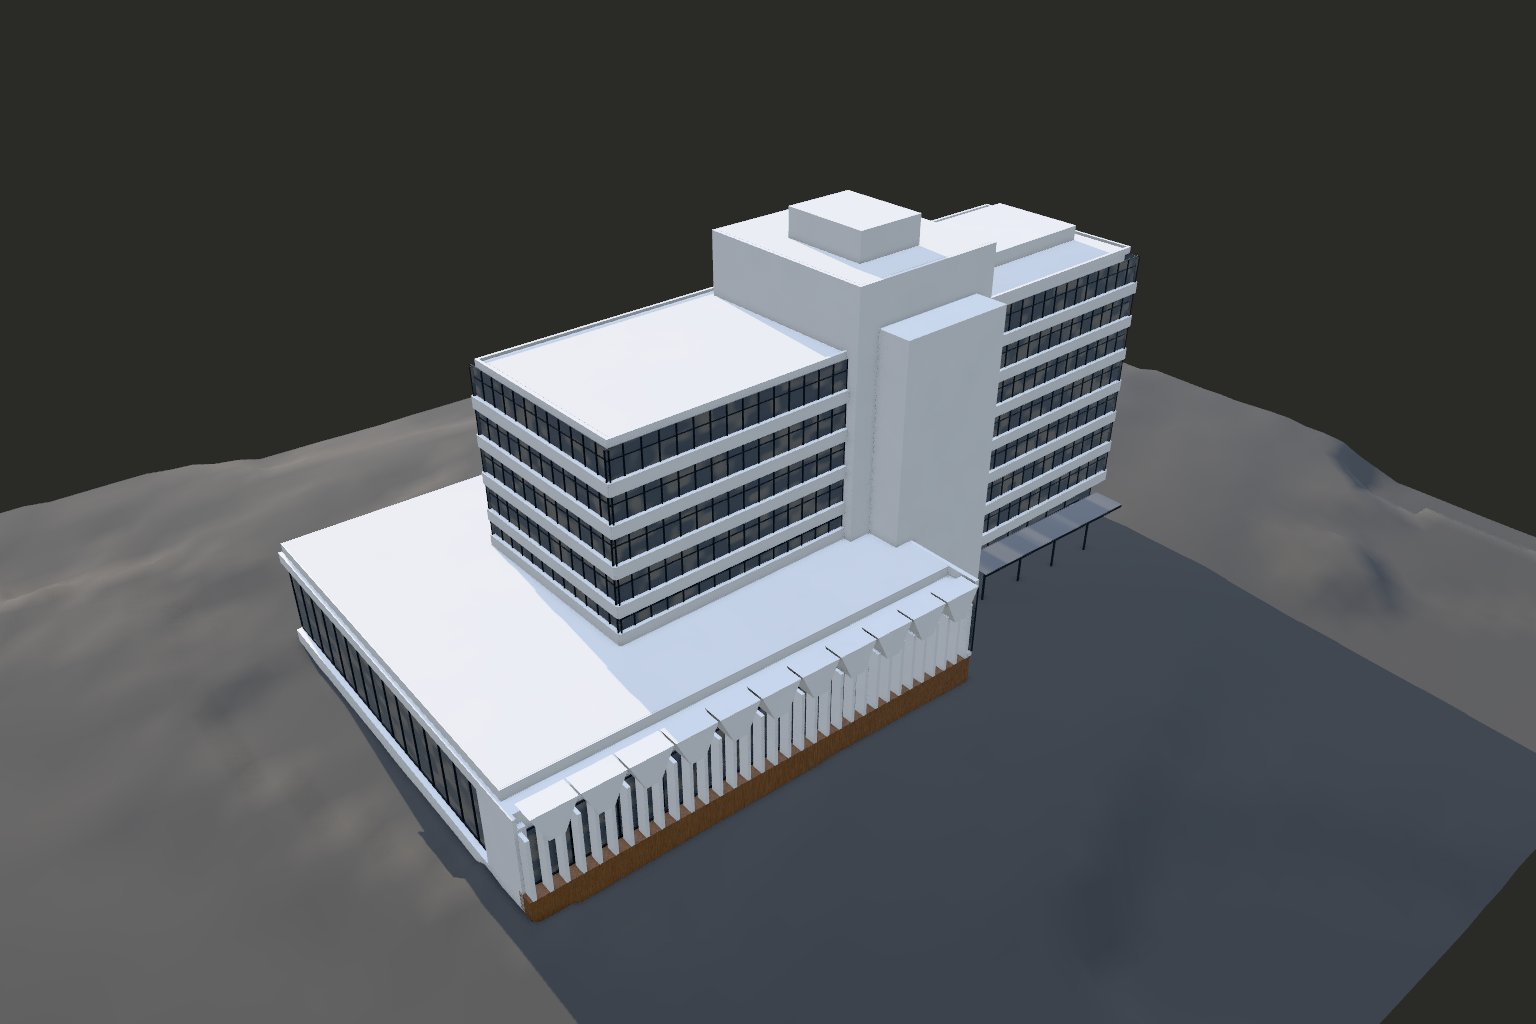
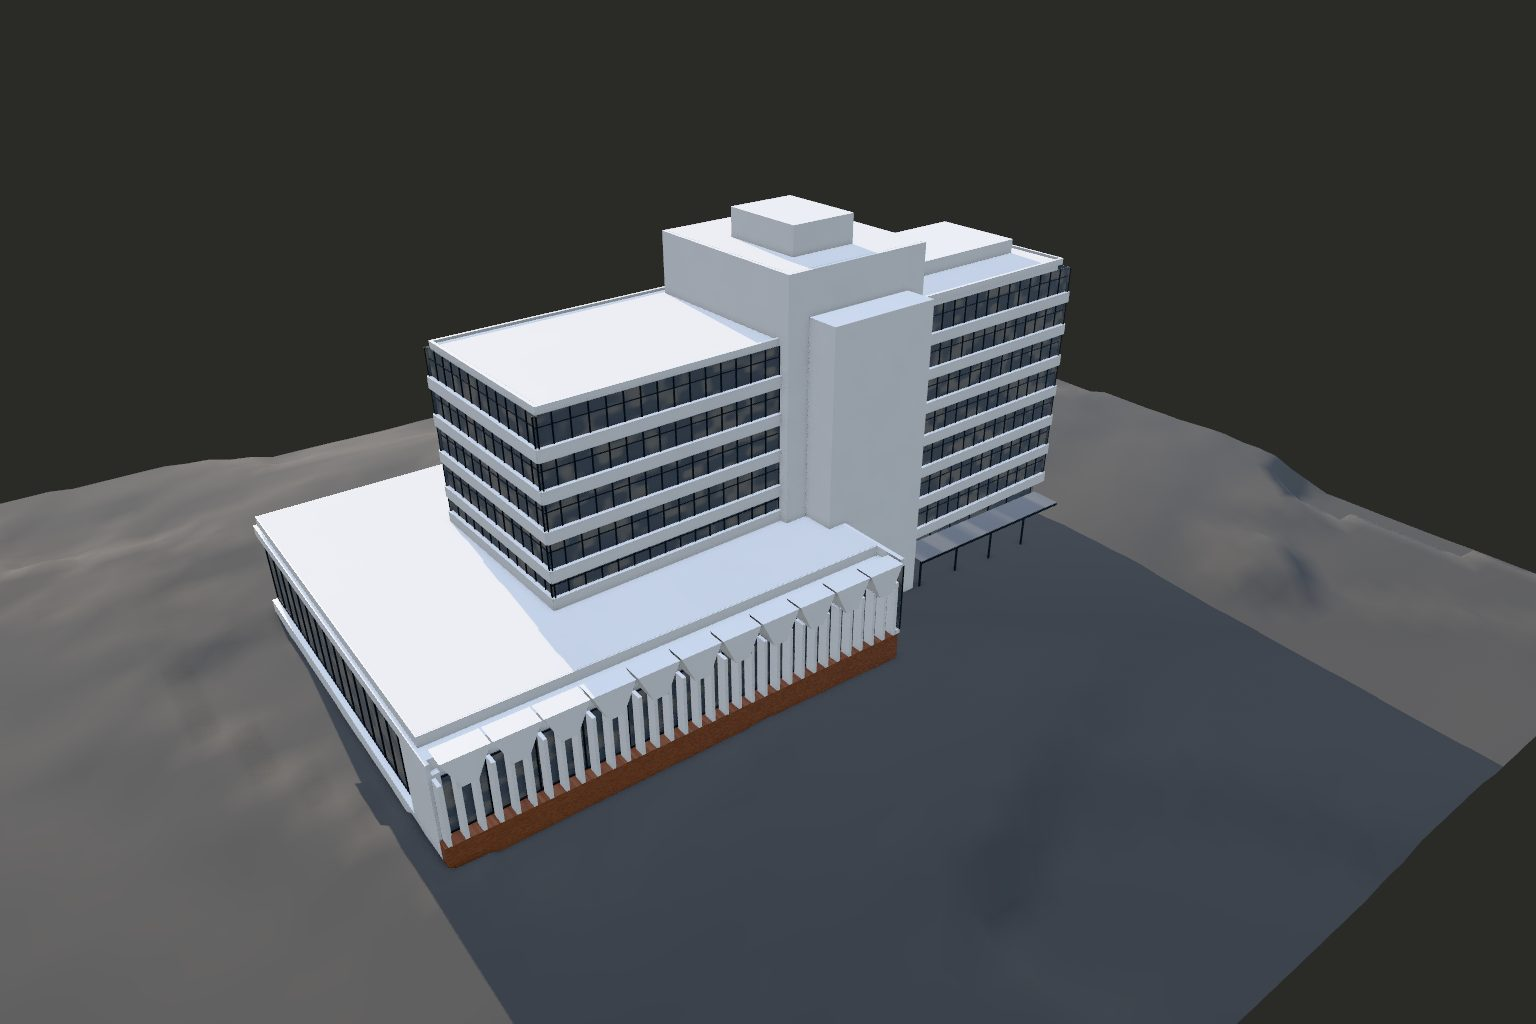
Put the General Library on the site: drawn in detail near building 109
Its config says "site": true and place wrote it into placement.json, so the site finds it and About
lists it. Its brick and grey are walls in the light form, so LIGHT_ROLE needs nothing new. Of the
three blocks within 80 m it covers 93.9% of 109 and under 0.5% of 103 and 322, so `also` stays
empty. Each material's lowest points stand at least 0.09 m below the site's drawn ground.

CHANGELOG, What's new, the README's landmark section (with three renders, retaken with the brick
and the piers), sources table and Known limitations name it; About now says "such as stone, brick,
concrete, painted timber, glass and slate". The landmark's README records the round on the site.

diff --git a/README.md b/README.md
@@ -40,9 +40,10 @@ It is built to answer two questions a student actually has:
 
 ## What's new
 
-- **2026-10-22:** near Old Government House the map draws it in detail, in painted timber from a
-  walker's height; the floor of Nicholls Lane ECE, an early childhood centre, is left blank, as every
-  childcare centre's is; Firefox 93 to 113 show the Clock Tower as blocks.
+- **2026-10-22:** near the General Library the map draws it in detail, in white concrete and brick
+  from a walker's height, and near Old Government House, in painted timber; the floor of Nicholls
+  Lane ECE, an early childhood centre, is left blank, as every childcare centre's is; Firefox 93 to
+  113 show the Clock Tower as blocks.
 - **2026-10-21:** near the Clock Tower the map draws it in detail, from code and to its measured
   sizes: in the map's colours on the map, and in stone, glass and slate from a walker's height. A
   click still opens its floors.
@@ -226,12 +227,23 @@ of 0.95, and in 95% of the cells its height is within 0.5 m of the LiDAR's.
 | ![Old Government House from its lawn, the garden front, drawn from code](docs/landmarks/old-government-house-front.jpg) | ![The south-east end and the garden front, drawn from code](docs/landmarks/old-government-house-end.jpg) |
 | ![Old Government House on the map, drawn from code in the map's colours](docs/landmarks/old-government-house-map.jpg) | ![Old Government House from its lawn, through the walker's eyes](docs/landmarks/old-government-house-eyes.jpg) |
 
+The third is the General Library (109) on Alfred Street: a tower slab of ribbon windows over a podium
+whose white fins stand on a brick plinth. Twelve Street View panoramas see each of its faces. Seen
+from them, the outline of the model covers the outline of the building with an IoU of 0.80 on
+average over 35 views; from above, its footprint covers the LiDAR's with an IoU of 0.946, and its
+highest point is 38.8 m, as the LiDAR's.
+
+| | |
+| --- | --- |
+| ![The General Library from Alfred Street, drawn from code](docs/landmarks/general-library-alfred.jpg) | ![The General Library's south-east end, its entrance between grey piers, drawn from code](docs/landmarks/general-library-southeast.jpg) |
+| ![The General Library from above, drawn from code](docs/landmarks/general-library-above.jpg) | |
+
 The site draws each landmark in place of its buildings' blocks (the Clock Tower in place of buildings
-105 and 105S, its south range; Old Government House in place of 102) when the camera comes near: on
-the map in the map's colours, and from a walker's height in its own materials on a computer with a
-graphics card. The blocks still answer a click and open on their floors. The
-geometry and the textures are made in a worker, the first time they are wanted, so that the page
-does not stop for them ([`landmarks/README.md`](landmarks/README.md), "On the site").
+105 and 105S, its south range; Old Government House in place of 102; the General Library in place
+of 109) when the camera comes near: on the map in the map's colours, and from a walker's height in
+its own materials on a computer with a graphics card. The blocks still answer a click and open on
+their floors. The geometry and the textures are made in a worker, the first time they are wanted,
+so that the page does not stop for them ([`landmarks/README.md`](landmarks/README.md), "On the site").
 
 | On the map, near it | Through a walker's eyes on Princes Street |
 | --- | --- |
@@ -398,8 +410,8 @@ an estimate of 3.6 m a floor, and its windows and roof rims are drawn by rule.
 | [OpenStreetMap](https://www.openstreetmap.org/copyright) via the Overpass API | Surrounding buildings, streets, paths, parks, trees | © OpenStreetMap contributors, [Open Database License 1.0](https://opendatacommons.org/licenses/odbl/1-0/). The snapshot in `data/raw/osm/` and the derived `public/data/context.json` are under the same licence. |
 | [University of Auckland Calendar 2026](https://www.auckland.ac.nz/en/about-us/about-the-university/the-university/official-publications/university-calendar/current-calendar.html) | Semester dates, breaks, holidays; list of subject codes | © University of Auckland. Dates and codes are quoted as facts with a link to the source. |
 | [LINZ 8 m Digital Elevation Model (2012)](https://data.linz.govt.nz/layer/51768-nz-8m-digital-elevation-model-2012/), via the [AWS Terrain Tiles](https://registry.opendata.aws/terrain-tiles/) | The height of the ground | New Zealand terrain data © Land Information New Zealand and the New Zealand Government, [CC BY 3.0 NZ](https://creativecommons.org/licenses/by/3.0/nz/). The tiles also hold SRTM and GMTED2010 data (U.S. Geological Survey) and ETOPO1 (U.S. NOAA) at the coast. The tiles in `data/raw/terrain/` and the derived `public/data/terrain/` are under the same terms. |
-| [Auckland Part 1 LiDAR point cloud (2024)](https://doi.org/10.5069/G9HH6H8T), tiles `CL2_BA32_2024_1000_*`, captured by Woolpert for Regional Software Holdings Limited and distributed by OpenTopography and LINZ | The sizes of the Clock Tower (buildings 105 and 105S) and Old Government House (102), measured for their models in `landmarks/clocktower/` and `landmarks/old-government-house/` | Sourced from LINZ and licensed by Regional Software Holdings Limited for re-use under [CC BY 4.0](https://creativecommons.org/licenses/by/4.0/) ([LINZ's attribution page](https://www.linz.govt.nz/products-services/data/licensing-and-using-data/attributing-elevation-or-aerial-imagery-data)). Only the measured sizes are published, in the landmark's config and `parts/common.js`; the tiles stay on the computer that fetched them. |
-| Google Street View, through the Map Tiles API | Photographs the models of the Clock Tower and Old Government House were compared with while they were drawn | © Google. Used as references only: never published, traced or sampled, and kept on the computer that fetched them. |
+| [Auckland Part 1 LiDAR point cloud (2024)](https://doi.org/10.5069/G9HH6H8T), tiles `CL2_BA32_2024_1000_*`, captured by Woolpert for Regional Software Holdings Limited and distributed by OpenTopography and LINZ | The sizes of the Clock Tower (buildings 105 and 105S), Old Government House (102) and the General Library (109), measured for their models in `landmarks/clocktower/`, `landmarks/old-government-house/` and `landmarks/general-library/` | Sourced from LINZ and licensed by Regional Software Holdings Limited for re-use under [CC BY 4.0](https://creativecommons.org/licenses/by/4.0/) ([LINZ's attribution page](https://www.linz.govt.nz/products-services/data/licensing-and-using-data/attributing-elevation-or-aerial-imagery-data)). Only the measured sizes are published, in the landmark's config and `parts/common.js`; the tiles stay on the computer that fetched them. |
+| Google Street View, through the Map Tiles API | Photographs the models of the Clock Tower, Old Government House and the General Library were compared with while they were drawn | © Google. Used as references only: never published, traced or sampled, and kept on the computer that fetched them. |
 | [Open-Meteo](https://open-meteo.com/) | Current weather in Auckland (temperature, cloud, rain, wind), fetched by the visitor's browser | [CC BY 4.0](https://open-meteo.com/en/licence) |
 | ["Animated Human" by Quaternius](https://opengameart.org/content/animated-human-low-poly) | The walker's body and its idle, walk and run, in `public/models/walker.glb` | [CC0 1.0](https://creativecommons.org/publicdomain/zero/1.0/), public domain. Downloaded once, on 2026-10-16. |
 
@@ -417,8 +429,8 @@ If you represent the University and would like something changed or removed, ple
 - **Building heights are estimated and windows are drawn by rule.** The ground's heights come from
   the LINZ 8 m elevation model, drawn from contours: smooth, peaks a few metres low. A building stands
   at the ground under its middle, with a footing of up to 4 m on a slope. The Clock Tower (105 and
-  105S) and Old Government House (102) are the exceptions: their models are drawn to sizes measured
-  from LiDAR.
+  105S), Old Government House (102) and the General Library (109) are the exceptions: their models
+  are drawn to sizes measured from LiDAR.
 - **Old Government House is seen in only two photographs.** Trees hide it from the other Street View
   panoramas near it, and the two see the upper storey of its south-east end. Its sizes and roofs
   come from the LiDAR. What no photograph shows is drawn plainly or after the parts the photographs

diff --git a/landmarks/general-library/README.md b/landmarks/general-library/README.md
@@ -6,7 +6,8 @@ photographs (October 2026). The kit it is built with, the pipeline, the viewer a
 shared by every landmark: [`../README.md`](../README.md).
 
 - Look at it: `http://localhost:8765/landmarks/pipeline/viewer/index.html?landmark=general-library&view=orbit`
-  with the repository root served on port 8765. It is not on the site.
+  with the repository root served on port 8765. The site draws it near building 109 in place of its
+  block (`landmarks/README.md`, "On the site").
 - Run its pipeline: `landmarks/pipeline/run.sh general-library [stage ...]`.
 - The rules: [`docs/CONTRACT.md`](docs/CONTRACT.md) and [`docs/ART_BIBLE.md`](docs/ART_BIBLE.md).
 
@@ -15,7 +16,7 @@ shared by every landmark: [`../README.md`](../README.md).
 | `model.js` | assembles the parts: `slab`, `core`, `podium`, `canopy` |
 | `parts/` | `slab.js` (the tower slab, its core and stair tower), `podium.js` (the podium, its fin screens, the canopy), `facade.js` (ribbon windows and glazing on any face), `common.js` (the sizes measured in the LiDAR) |
 | `config/general-library.json` | the building (109), the LiDAR and aerial tiles, the frame, the ground and the door, the twelve Street View panoramas, the viewer's light |
-| `placement.json` | where it stands on the campus map (written by the `place` stage); not on the site |
+| `placement.json` | where it stands on the campus map (written by the `place` stage); `site: true` |
 | `landscape.js` | the ground round it, for the viewer only: the LiDAR's ground on a 2.5 m grid |
 
 Renders of the model (no photograph): [`docs/landmarks/general-library-alfred.jpg`](../../docs/landmarks/general-library-alfred.jpg)
@@ -88,8 +89,29 @@ viewer, the LiDAR's ground round it (`landscape.js`).
   point stands above it (the highest is 1.29 m below).
 - 10,128 triangles in 5 materials (`paint`, `glassPale`, `iron`, `roofPale`, `timber`), built in 3-18 ms.
 
-What the next round should look at: the grey of the south-east end's piers and cladding, of the back
-wing's plinth and of the north-west end's stone panel (a mid-grey in the kit); a brick for the plinth;
-the hoods' hollow undersides; the slab's lower floors on Alfred Street (taller glazing) and the
-transoms of its ribbon windows; the ribs of the podium's roof (about 2.4-2.5 m apart; a first try was
-out of step with the LiDAR's); the light of the back's sunlit views.
+## On the site (October 2026)
+
+The kit has a brick now (the Old Choral Hall's, the same shader) and a mid-grey, `grey` (the paint's own
+shader in another colour, so a model that uses it makes no new shader): the plinth on Alfred Street and
+by the stair tower is brick, and the south-east end's ground floor stands between grey piers (0.9 m
+wide, where the glazing's mullions were), as does the low block's end; the back wing's plinth is grey.
+The clock tower's and Old Government House's seven viewer frames (`?quality=low` from five cameras,
+`?mask=1`, `&landscape=0`) are byte-identical before and after.
+
+- Against the photographs (`refine compare` again, 36 views, 35 scored; the cameras of `xKYw…` and
+  `fF8q…` refined): silhouette IoU 0.796 on average; on Alfred Street, the front, 0.507 to 1.0 (the
+  lowest `MMME…` upper, under the plane trees); `Qaci…` wide, off the north-west end, 0.32 (bushes and
+  trees in front). Building region luma median 143 in the photographs and 136 drawn.
+- From above: unchanged (footprint IoU 0.946; highest point 38.8 m against 38.78 m; 93.9% of block 109
+  under it). The blocks within 80 m are 109, 103 (Alfred Nathan House) and 322 (AUSA House); the model
+  covers under 0.5% of the other two, so `also` stays empty.
+- On the site's ground: each material's lowest points are at least 0.09 m below the drawn ground (the
+  test "each landmark on the site's ground" allows 0.25 m above it).
+- 10,248 triangles in 6 materials (`paint`, `glassPale`, `iron`, `roofPale`, `grey`, `brick`): 6 draw
+  calls.
+
+What the next round should look at: the cladding of the south-east end and the brown panel of the low
+block's end; the north-west end's stone panel; the hoods' hollow undersides; the slab's lower floors
+on Alfred Street (taller glazing) and the transoms of its ribbon windows; the ribs of the podium's roof
+(about 2.4-2.5 m apart; a first try was out of step with the LiDAR's); the light of the back's sunlit
+views.

diff --git a/CHANGELOG.md b/CHANGELOG.md
@@ -18,6 +18,15 @@ A change to what the site does or shows adds its line here, and the README's
 
 ### Added
 
+- **The General Library drawn in detail.** Near the General Library (building 109) the map now
+  draws it from code, to sizes measured from the LiDAR survey: the tower slab with its ribbon
+  windows floor by floor, the core and stair tower, the podium with its screens of white fins under
+  a crown of folded hoods, the brick plinth on Alfred Street, the south-east end glazed between grey
+  piers, and the glass canopy. On the map it has the map's colours. From a walker's height it is
+  drawn in white concrete, brick, grey and glass on a computer with a graphics card, and in the
+  map's colours on phones and on computers without one. Twelve Street View panoramas see its faces,
+  and it was checked against them and against the LiDAR from above. Its block still answers a click
+  and opens on its floors. About now names brick and concrete among the landmarks' materials (#PR).
 - **Old Government House drawn in detail.** Near Old Government House (building 102) the map now
   draws it from code, to sizes measured from the LiDAR survey: its two storeys and the ranges
   behind, the low hipped roofs on bracketed eaves, the chimneys, the bay, the balconies and the
